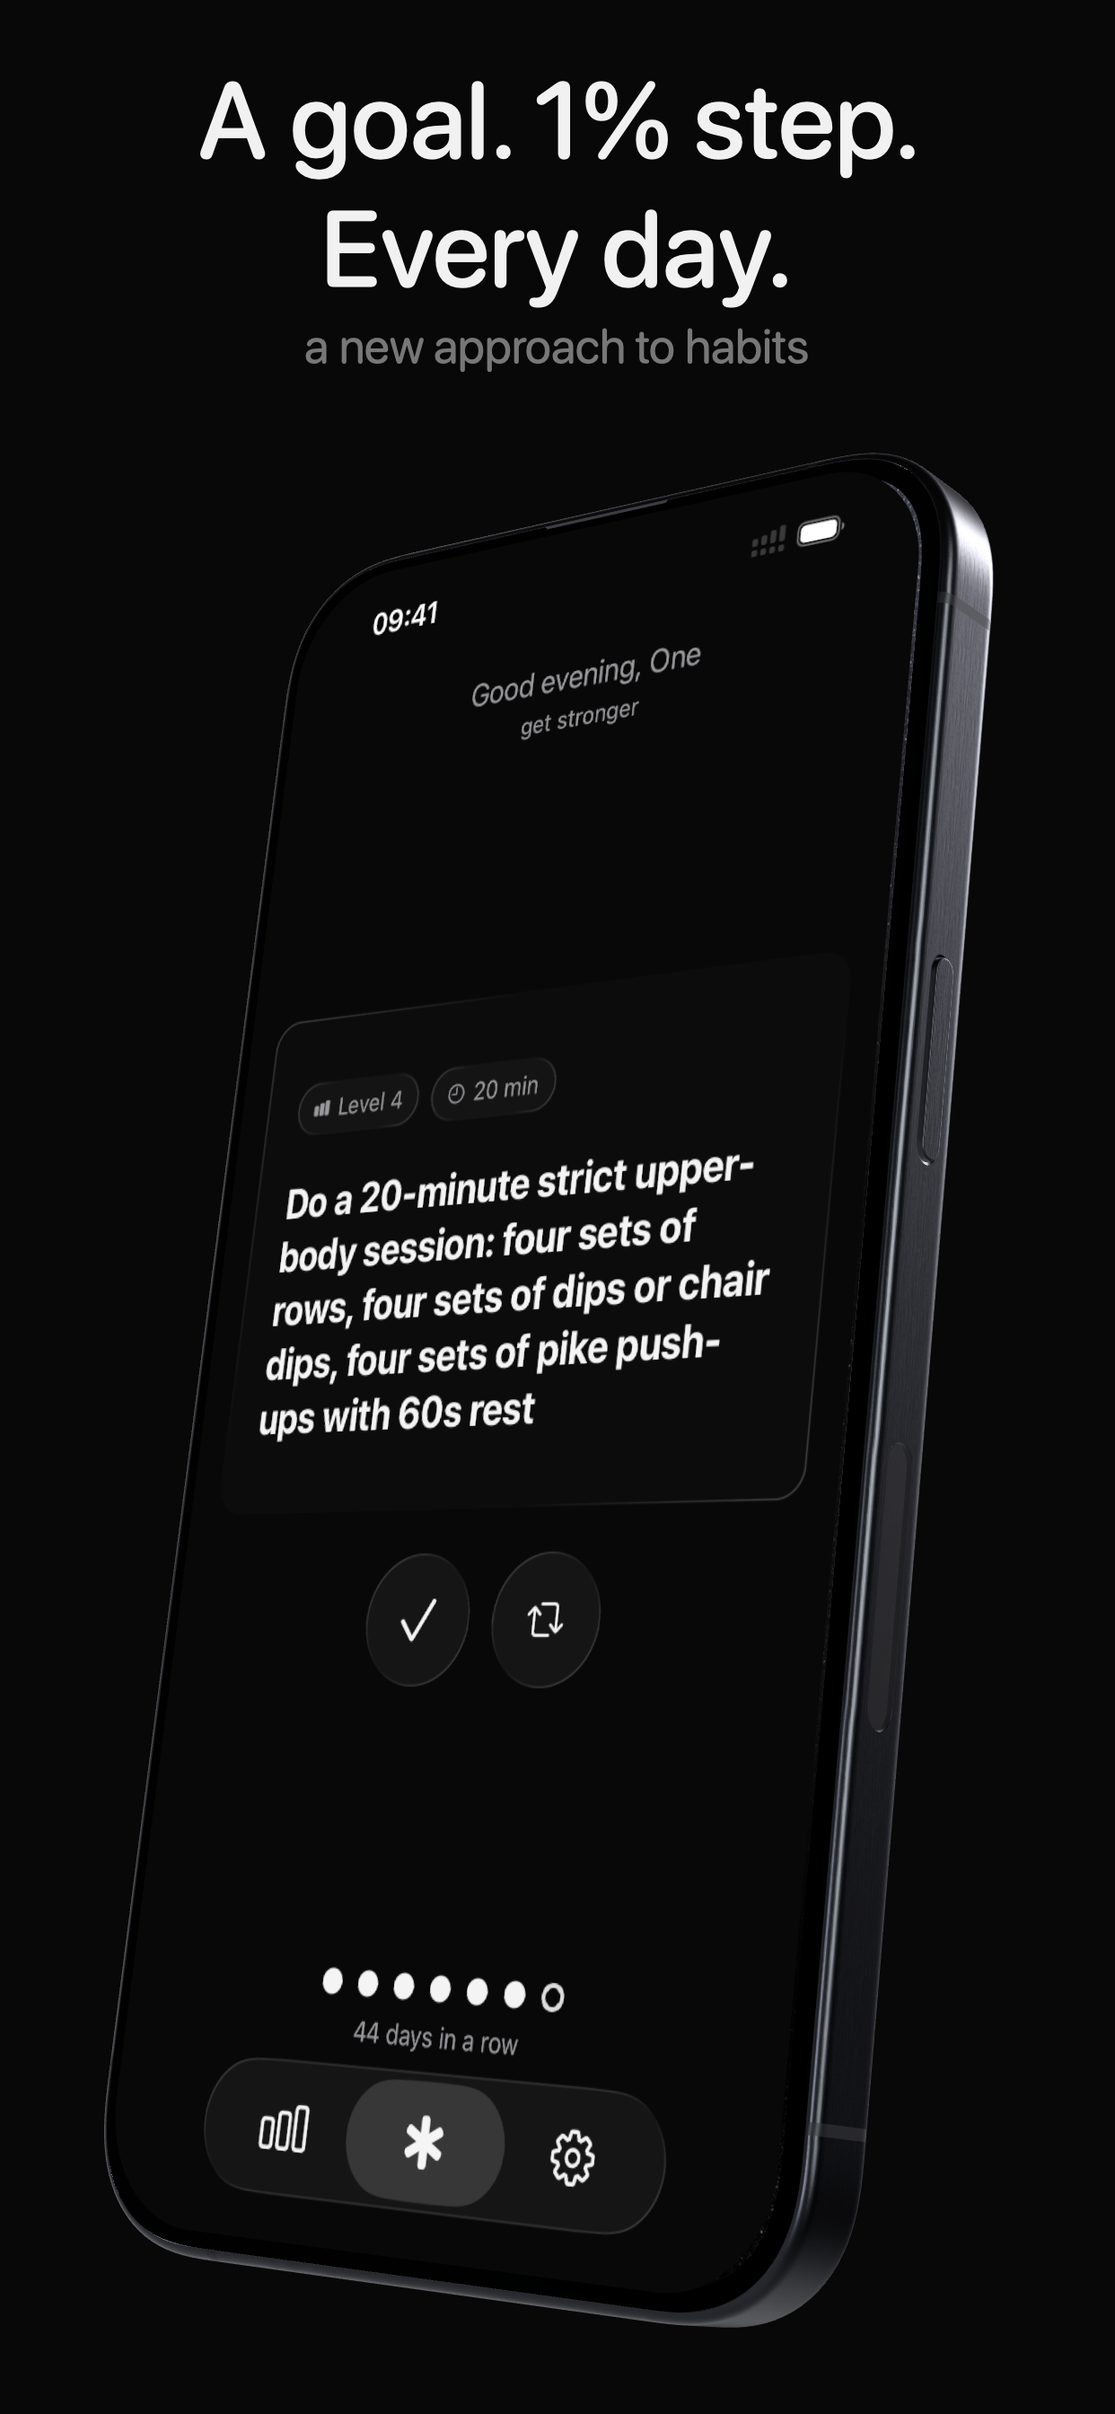
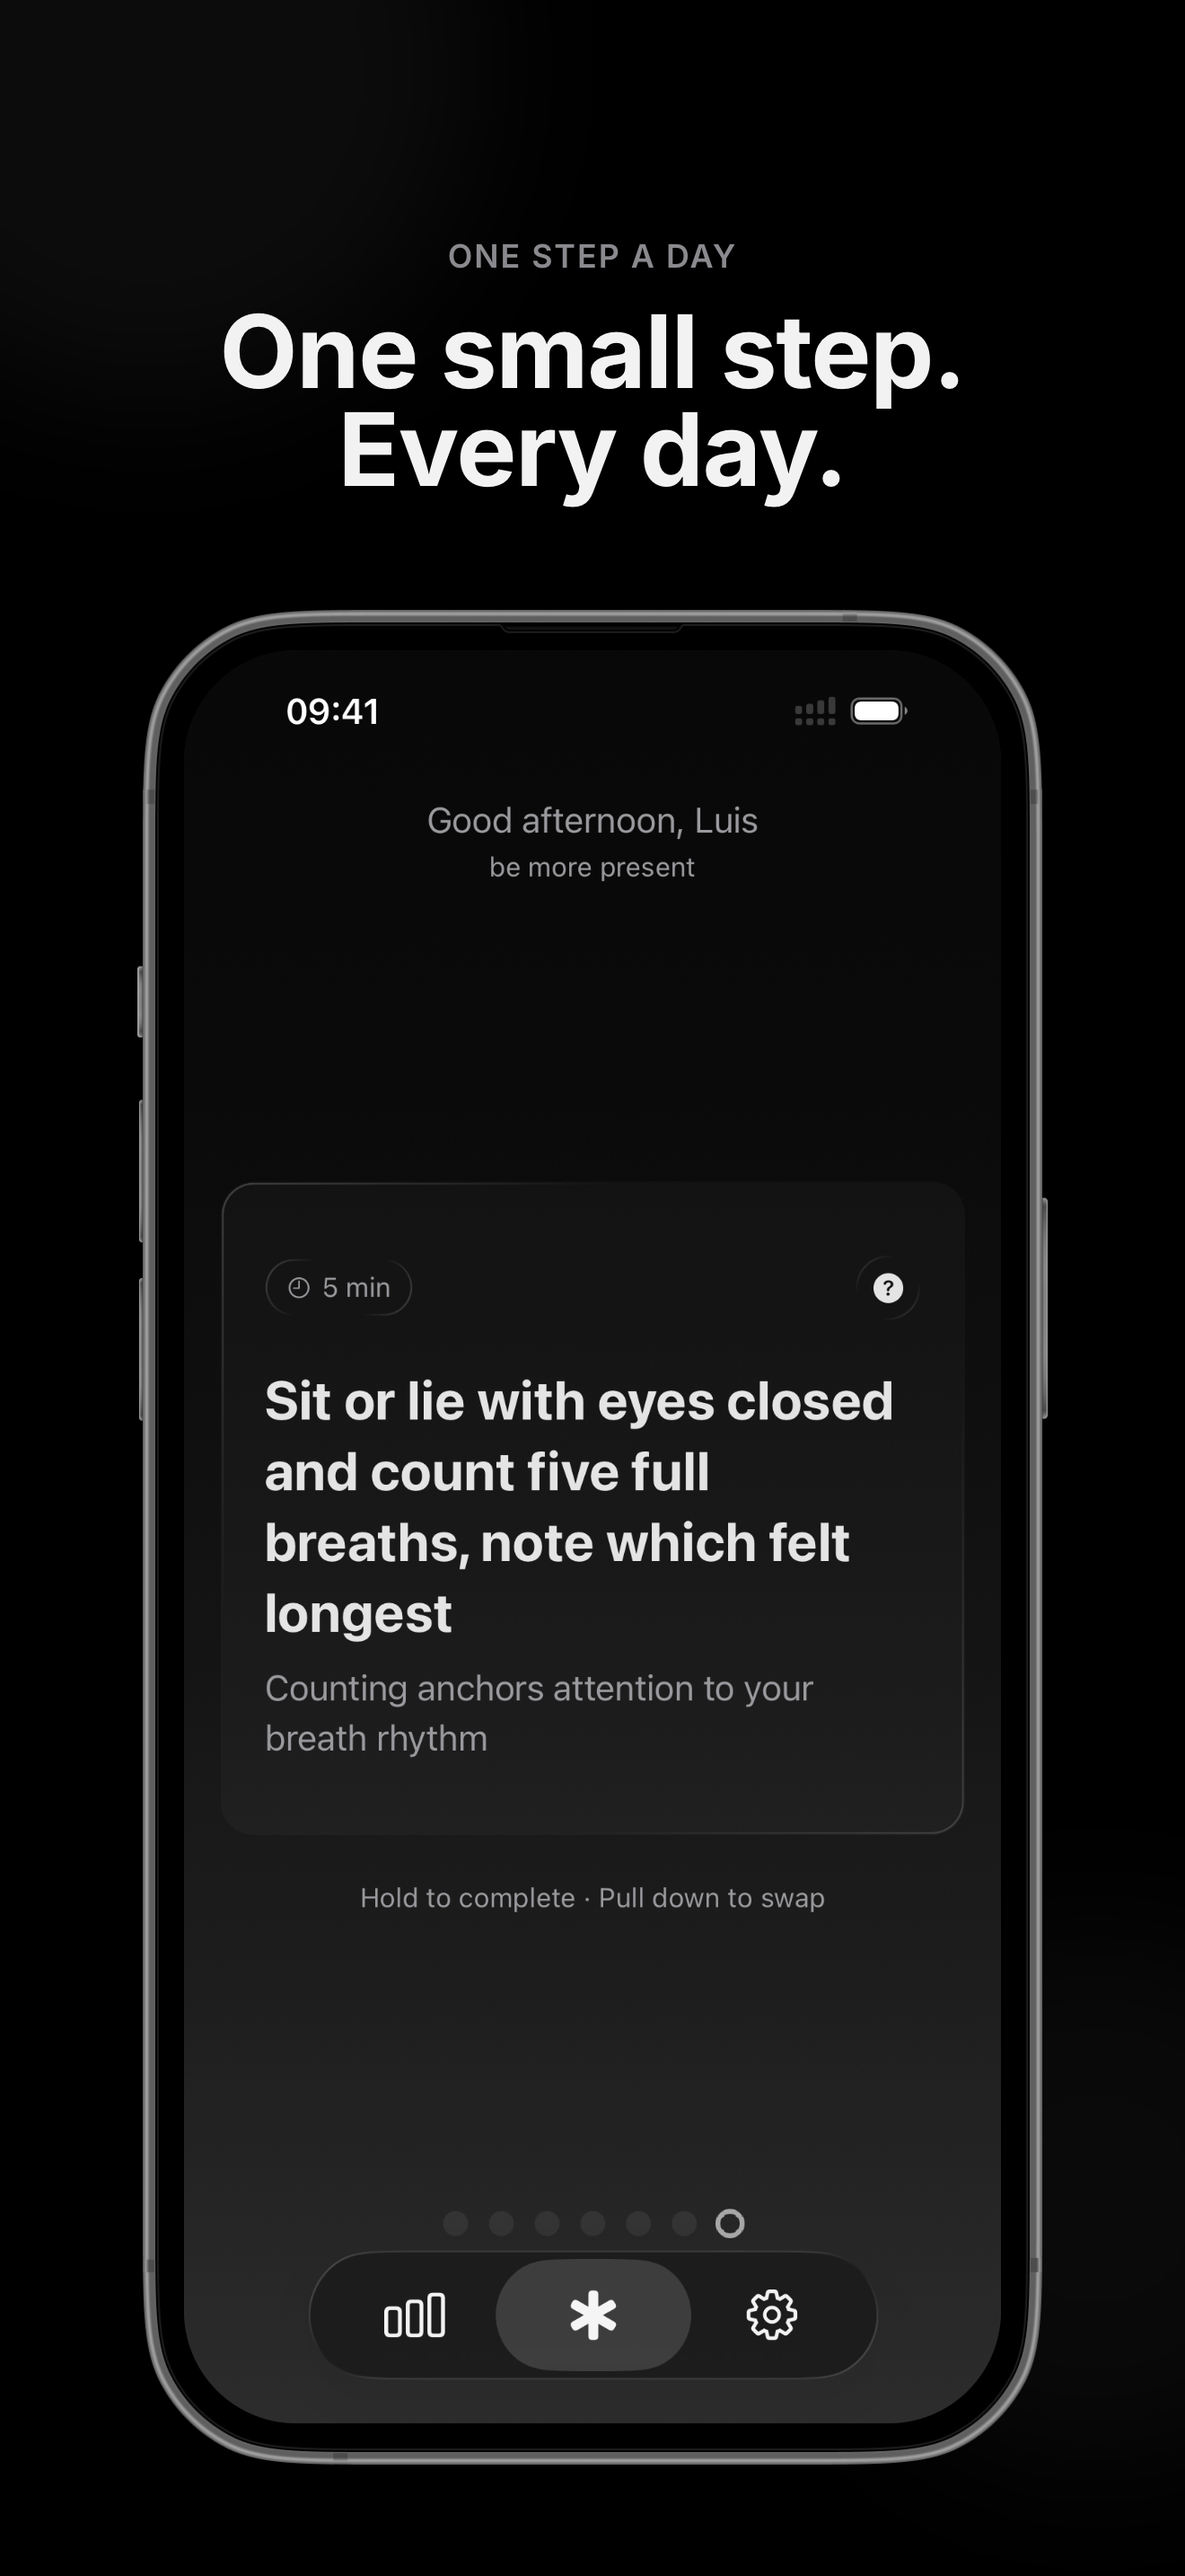
Update

diff --git a/index.html b/index.html
@@ -87,7 +87,7 @@
          Intrinsic size is the real pixel size of the files, so the browser
          reserves the right space before they load and nothing jumps. The first
          is eager because it is above the fold on a phone; the other two are
-         lazy. 
+         lazy. -->
     <ul class="shots">
       <li>
         <img src="screenshot-1.png" width="1320" height="2868" fetchpriority="high"
@@ -102,7 +102,7 @@
              alt="A new level screen: the number 24 inside a ring, the label New level, the name Even Keel, and the line &quot;Come back tomorrow and keep it going.&quot;">
       </li>
     </ul>
--->
+
   </section>
 
   <div class="wrap">
